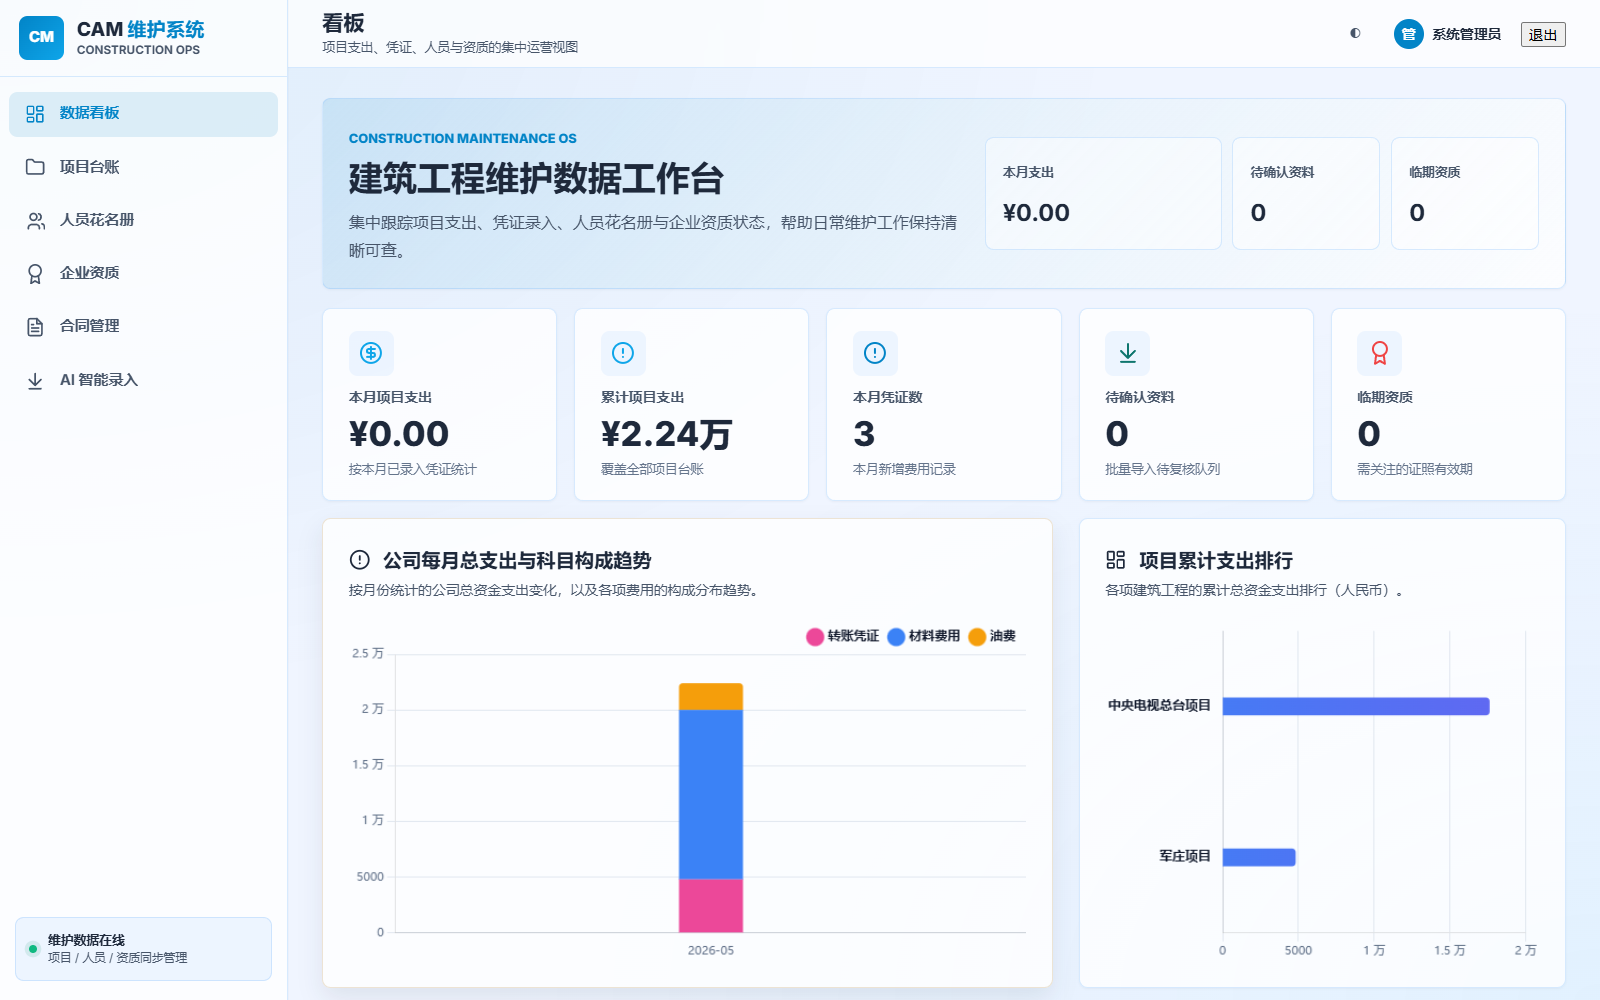
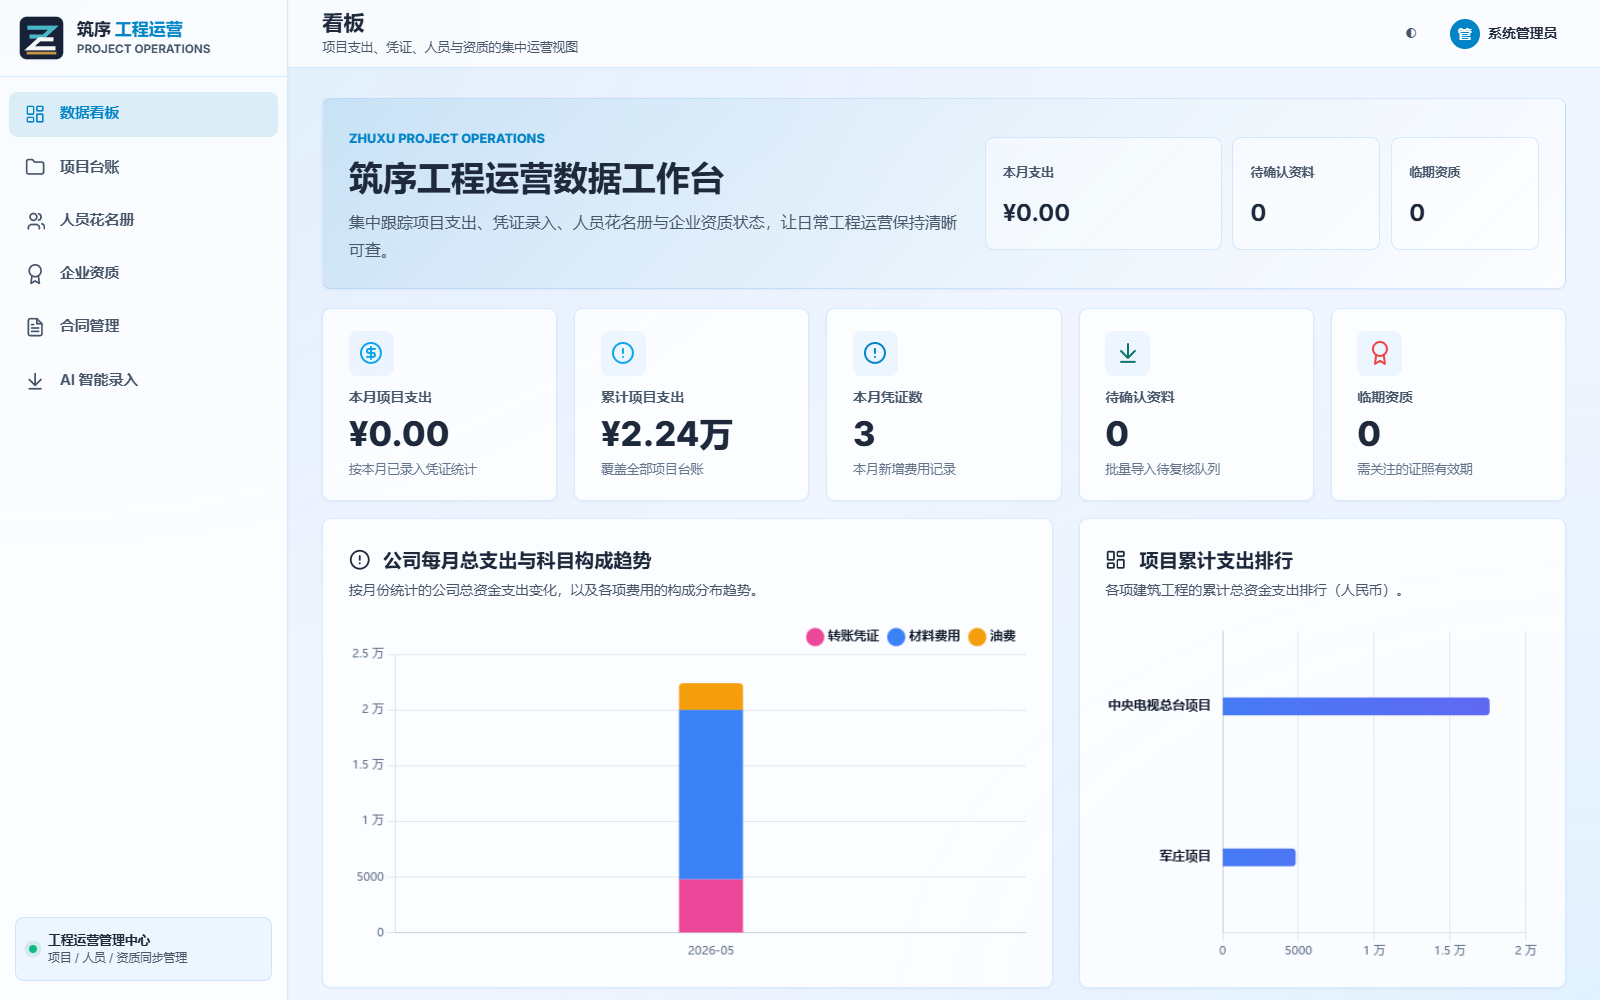
feat: introduce Zhuxu product brand

diff --git a/construction_maintenance/static/app.css b/construction_maintenance/static/app.css
@@ -192,14 +192,15 @@ a {
 .brand-mark {
   width: 42px;
   height: 42px;
-  display: grid;
-  place-items: center;
   flex: 0 0 42px;
+  overflow: hidden;
   border-radius: var(--radius-lg);
-  background: linear-gradient(135deg, var(--secondary-color), var(--accent-color));
-  color: #FFFFFF;
-  font-size: 14px;
-  font-weight: 800;
+}
+
+.brand-mark img {
+  width: 100%;
+  height: 100%;
+  display: block;
 }
 
 .brand-copy {
@@ -2943,12 +2944,13 @@ textarea.form-input:focus {
   place-items: center;
   border: 1px solid rgba(255, 255, 255, 0.2);
   border-radius: 6px;
-  background: #21304b;
+  background: #172238;
 }
 
 .login-showcase-mark img {
-  width: 27px;
-  height: 27px;
+  width: 100%;
+  height: 100%;
+  display: block;
   object-fit: contain;
 }
 

diff --git a/construction_maintenance/templates/base.html b/construction_maintenance/templates/base.html
@@ -6,7 +6,7 @@
     <meta name="viewport" content="width=device-width, initial-scale=1">
     <meta name="csrf-token" content="{{ csrf_token() }}">
     <title>{% block title %}{{ system_settings.system_name }}{% endblock %}</title>
-    <link rel="icon" href="{{ url_for('static', filename='icons/hardhat.png') }}" type="image/png">
+    <link rel="icon" href="{{ url_for('static', filename='brand/zhuxu-mark.svg') }}" type="image/svg+xml">
     <link rel="preconnect" href="https://fonts.googleapis.com">
     <link rel="preconnect" href="https://fonts.gstatic.com" crossorigin>
     <link href="https://fonts.googleapis.com/css2?family=Inter:wght@300;400;500;600;700;800&family=Fira+Code:wght@400;500;600&display=swap" rel="stylesheet">
@@ -43,10 +43,12 @@
     <div class="app-container">
       <aside class="sidebar">
         <div class="brand-lockup">
-          <div class="brand-mark" aria-hidden="true">CM</div>
+          <div class="brand-mark" aria-hidden="true">
+            <img src="{{ url_for('static', filename='brand/zhuxu-mark.svg') }}" alt="">
+          </div>
           <div class="brand-copy">
-            <div class="brand-name">CAM <span>{{ system_settings.system_name }}</span></div>
-            <div class="brand-subtitle">{{ system_settings.organization_name or 'Construction Ops' }}</div>
+            <div class="brand-name">筑序 <span>工程运营</span></div>
+            <div class="brand-subtitle">Project Operations</div>
           </div>
         </div>
 
@@ -97,7 +99,7 @@
         <div class="sidebar-status">
           <span class="status-dot" aria-hidden="true"></span>
           <div>
-            <strong>{{ system_settings.organization_name or '维护数据在线' }}</strong>
+            <strong>{{ system_settings.organization_name or '运营数据在线' }}</strong>
             <span>{{ system_settings.support_contact or '项目 / 人员 / 资质同步管理' }}</span>
           </div>
         </div>
@@ -109,7 +111,7 @@
             <div class="page-title-group">
               <div>
                 <h2>{% block breadcrumb %}看板{% endblock %}</h2>
-                <span>{% block page_subtitle %}建筑工程维护数据工作台{% endblock %}</span>
+                <span>{% block page_subtitle %}筑序工程运营数据工作台{% endblock %}</span>
               </div>
             </div>
 

diff --git a/construction_maintenance/templates/login.html b/construction_maintenance/templates/login.html
@@ -5,18 +5,18 @@
     <meta charset="utf-8">
     <meta name="viewport" content="width=device-width, initial-scale=1">
     <title>登录 - {{ system_settings.system_name }}</title>
-    <link rel="icon" href="{{ url_for('static', filename='icons/hardhat.png') }}" type="image/png">
-    <link rel="stylesheet" href="{{ url_for('static', filename='app.css') }}?v=2.1.8">
+    <link rel="icon" href="{{ url_for('static', filename='brand/zhuxu-mark.svg') }}" type="image/svg+xml">
+    <link rel="stylesheet" href="{{ url_for('static', filename='app.css') }}?v=2.1.9">
   </head>
   <body class="login-page">
     <main class="login-layout">
       <section class="login-showcase" aria-label="系统界面展示">
         <header class="login-showcase-brand">
           <span class="login-showcase-mark" aria-hidden="true">
-            <img src="{{ url_for('static', filename='icons/hardhat.png') }}" alt="">
+            <img src="{{ url_for('static', filename='brand/zhuxu-mark.svg') }}" alt="">
           </span>
           <span>
-            <small>CAM OPERATIONS</small>
+            <small>ZHUXU OPERATIONS</small>
             <strong>{{ system_settings.system_name }}</strong>
           </span>
         </header>
@@ -34,7 +34,7 @@
           </figcaption>
           <img
             src="{{ url_for('static', filename='login-showcase.png') }}"
-            alt="建筑工程维护系统数据看板界面"
+            alt="筑序工程运营平台数据看板界面"
           >
         </figure>
 
@@ -128,7 +128,7 @@
             </footer>
           </div>
 
-          <p class="login-footnote">CAM · 建筑工程运营数据管理</p>
+          <p class="login-footnote">筑序 · 工程运营数据管理</p>
         </div>
       </section>
     </main>

diff --git a/construction_maintenance/templates/dashboard.html b/construction_maintenance/templates/dashboard.html
@@ -1,6 +1,6 @@
 {% extends "base.html" %}
 {% from "_icons.html" import icon %}
-{% block title %}数据看板 - CAM 建筑工程维护系统{% endblock %}
+{% block title %}数据看板 - {{ system_settings.system_name }}{% endblock %}
 {% block breadcrumb %}看板{% endblock %}
 
 {% block page_subtitle %}项目支出、凭证、人员与资质的集中运营视图{% endblock %}
@@ -8,9 +8,9 @@
 {% block content %}
 <section class="dashboard-hero animate-slide-up">
   <div class="dashboard-hero-copy">
-    <span class="eyebrow">Construction Maintenance OS</span>
-    <h1>建筑工程维护数据工作台</h1>
-    <p>集中跟踪项目支出、凭证录入、人员花名册与企业资质状态，帮助日常维护工作保持清晰可查。</p>
+    <span class="eyebrow">Zhuxu Project Operations</span>
+    <h1>筑序工程运营数据工作台</h1>
+    <p>集中跟踪项目支出、凭证录入、人员花名册与企业资质状态，让日常工程运营保持清晰可查。</p>
   </div>
   <div class="dashboard-hero-panel">
     <div>

diff --git a/construction_maintenance/templates/contracts.html b/construction_maintenance/templates/contracts.html
@@ -1,6 +1,6 @@
 {% extends "base.html" %}
 {% from "_icons.html" import icon %}
-{% block title %}合同管理 - CAM 建筑工程维护系统{% endblock %}
+{% block title %}合同管理 - {{ system_settings.system_name }}{% endblock %}
 {% block breadcrumb %}合同管理{% endblock %}
 {% block page_subtitle %}管理和归档项目中的总包、劳务、材料商及人员合同，支持多条件检索与存证预览。{% endblock %}
 
@@ -519,7 +519,7 @@ function openDocumentPreview(item) {
   document.getElementById('previewProjectName').innerText = item.project_name;
   document.getElementById('previewDocName').innerText = item.contract_type;
   document.getElementById('previewContractName').innerText = item.name;
-  document.getElementById('previewCertNo').innerText = `CAM-CON-${String(item.id).padStart(6, '0')}`;
+  document.getElementById('previewCertNo').innerText = `ZX-CON-${String(item.id).padStart(6, '0')}`;
   document.getElementById('previewIssueDate').innerText = '已归档存证';
   document.getElementById('previewNotes').innerText = item.notes || '暂无备注说明。';
   

diff --git a/construction_maintenance/templates/attendance.html b/construction_maintenance/templates/attendance.html
@@ -1,6 +1,6 @@
 {% extends "base.html" %}
 {% from "_icons.html" import icon %}
-{% block title %}人员考勤 - CAM 建筑工程维护系统{% endblock %}
+{% block title %}人员考勤 - {{ system_settings.system_name }}{% endblock %}
 {% block breadcrumb %}人员考勤{% endblock %}
 {% block page_subtitle %}全月工人出勤流水与排班登记矩阵。点击网格无刷保存，支持手机端横向粘性滑动。{% endblock %}
 

diff --git a/construction_maintenance/templates/batch.html b/construction_maintenance/templates/batch.html
@@ -1,6 +1,6 @@
 {% extends "base.html" %}
 {% from "_icons.html" import icon %}
-{% block title %}批量录入 - CAM 建筑工程维护系统{% endblock %}
+{% block title %}批量录入 - {{ system_settings.system_name }}{% endblock %}
 {% block breadcrumb %}批量录入{% endblock %}
 
 {% block content %}

diff --git a/construction_maintenance/templates/expense_categories.html b/construction_maintenance/templates/expense_categories.html
@@ -1,5 +1,5 @@
 {% extends "base.html" %}
-{% block title %}费用科目管理 - CAM 建筑工程维护系统{% endblock %}
+{% block title %}费用科目管理 - {{ system_settings.system_name }}{% endblock %}
 {% block breadcrumb %}费用科目管理{% endblock %}
 {% block page_subtitle %}维护凭证录入时可选择的费用科目{% endblock %}
 

diff --git a/construction_maintenance/templates/exports.html b/construction_maintenance/templates/exports.html
@@ -1,6 +1,6 @@
 {% extends "base.html" %}
 {% from "_icons.html" import icon %}
-{% block title %}导出中心 - CAM 建筑工程维护系统{% endblock %}
+{% block title %}导出中心 - {{ system_settings.system_name }}{% endblock %}
 {% block breadcrumb %}导出中心{% endblock %}
 
 {% block content %}

diff --git a/construction_maintenance/templates/people.html b/construction_maintenance/templates/people.html
@@ -1,6 +1,6 @@
 {% extends "base.html" %}
 {% from "_icons.html" import icon %}
-{% block title %}人员花名册 - CAM 建筑工程维护系统{% endblock %}
+{% block title %}人员花名册 - {{ system_settings.system_name }}{% endblock %}
 {% block breadcrumb %}人员花名册{% endblock %}
 
 {% block content %}

diff --git a/construction_maintenance/templates/project_vouchers.html b/construction_maintenance/templates/project_vouchers.html
@@ -1,6 +1,6 @@
 {% extends "base.html" %}
 {% from "_icons.html" import icon %}
-{% block title %}{{ project.name }} - 费用台账 - CAM 建筑工程维护系统{% endblock %}
+{% block title %}{{ project.name }} - 费用台账 - {{ system_settings.system_name }}{% endblock %}
 {% block breadcrumb %}项目台账 / 专属费用台账{% endblock %}
 
 {% block content %}

diff --git a/construction_maintenance/templates/projects.html b/construction_maintenance/templates/projects.html
@@ -1,6 +1,6 @@
 {% extends "base.html" %}
 {% from "_icons.html" import icon %}
-{% block title %}项目台账 - CAM 建筑工程维护系统{% endblock %}
+{% block title %}项目台账 - {{ system_settings.system_name }}{% endblock %}
 {% block breadcrumb %}项目台账{% endblock %}
 
 {% block content %}